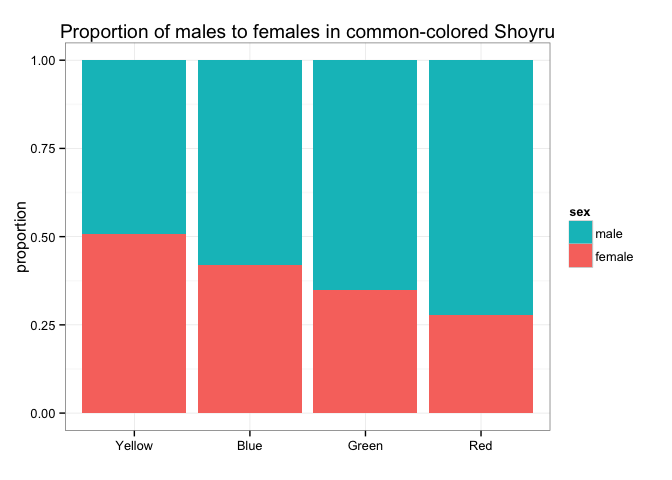
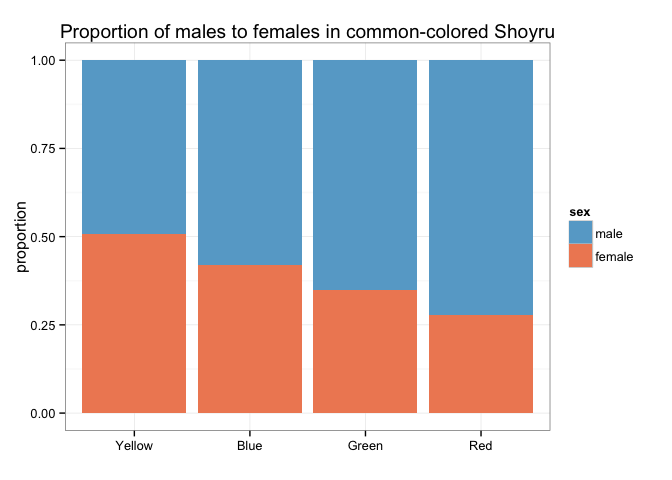
update colors

Changed region(s): [[0.125, 0.125, 0.8125, 0.6562], [0.8438, 0.4375, 0.9062, 0.5312]]

diff --git a/homework/hw10-data-from-the-web.md b/homework/hw10-data-from-the-web.md
@@ -441,6 +441,7 @@ dat.tmp %>%
              y = proportion,
              fill = sex)) +
   geom_bar(stat = "identity") +
+  scale_fill_manual(values = c("#ef8a62", "#67a9cf")) +
   ggtitle("Proportion of males to females in common-colored Shoyru") +
   xlab("") +
   guides(fill = guide_legend(reverse=TRUE)) +
